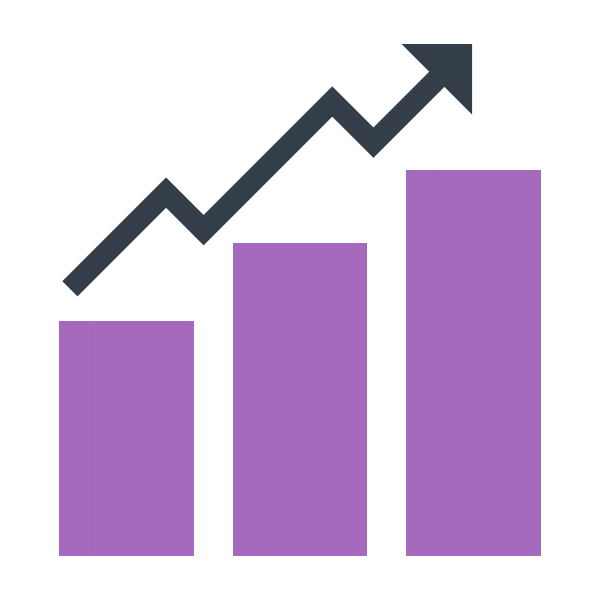
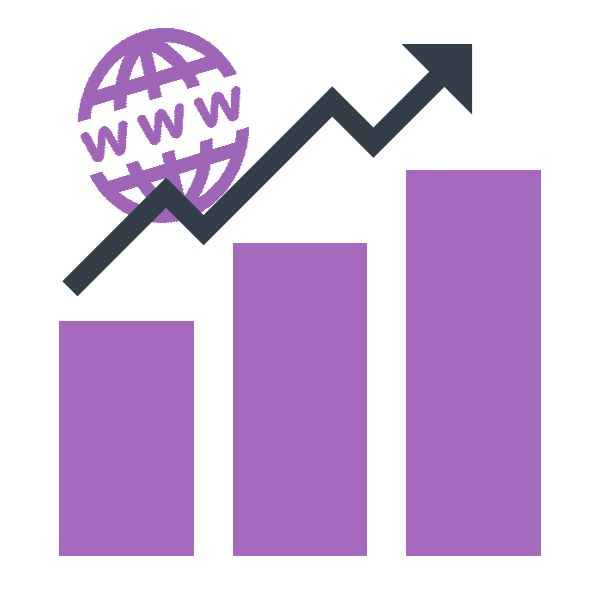
rubrieken css

Changed region(s): [[0.119, 0.0303, 0.4165, 0.3933]]

diff --git a/css/styles.css b/css/styles.css
@@ -96,6 +96,25 @@ main .succesMessage span{
     margin-left: -30px;
 }
 
+.subtabcontent a{
+    color: #000;
+}
+
+.subtabcontent a{
+    transition: margin-left 200ms, text-decoration-color 500ms;
+    display: block;
+    text-decoration: underline;
+    text-decoration-color: #fff;
+}
+
+.subtabcontent a:hover{
+    text-decoration-color: #000;
+}
+
+.subtabcontent ul li a:hover{
+    margin-left: 5px;
+}
+
 .catalogusButton{
     border: none;
     text-align: center;
@@ -147,8 +166,18 @@ main .succesMessage span{
     border-color: rgb(110, 110, 110);
 }
 
-.darkmode--activated .tabcontent .subsubcategories{
+.darkmode--activated .tabcontent .subtabcontent a{
     color: rgb(230, 230, 230);
+    text-decoration: underline;
+    text-decoration-color: rgb(100, 100, 100);
+}
+
+.darkmode--activated .subtabcontent a:hover{
+    text-decoration-color: rgb(230, 230, 230);
+}
+
+.darkmode--activated .subtabcontent ul li a:hover{
+    margin-left: 5px;
 }
 
 

diff --git a/classes/views/adminView.php b/classes/views/adminView.php
@@ -2,12 +2,12 @@
 
 $bootstrapGrid = 'col-xl-4 col-md-6 col-sm-6 col-6';
 
-$categories = ["auction", "user", "seller", "statistics", "activity", "addRubriek", "feedback", "footerpages", "settings", "reset", "fill", "query"];
+$categories = ["auction", "user", "seller", "statistics", "activity", "addRubriek", "feedback", "footerpages", "visitormap", "settings", "reset", "fill", "query"];
 $titles = ['Website', 'Database'];
-$websiteCategoriesAmount = 8;
+$websiteCategoriesAmount = 9;
 $databaseCategoriesAmount = 4;
 $cardTitles = ['Bekijk alle veilingen', 'Bekijk alle gebruikers', 'Bekijk alle verkopers', 'Bekijk website statistieken', 'Bekijk gebruikers statistieken',
-    'Voeg een rubriek toe', "Bekijk alle feedback", "Footer pagina's", 'Server Settings', 'Reset uw database', 'Vul uw database', 'MS SQL Server Query Editor'];
+    'Voeg een rubriek toe', "Bekijk alle feedback", "Footer pagina's", "Wereldkaart", 'Server Settings', 'Reset uw database', 'Vul uw database', 'MS SQL Server Query Editor'];
 $cardText = ['Hier is een overzicht te vinden van alle veilingen die ooit hebben bestaan.',
             'Hier is een overzicht te vinden van alle gebruikers.',
             'Hier is een overzicht te vinden van alle verkopers.',
@@ -16,6 +16,7 @@ $cardText = ['Hier is een overzicht te vinden van alle veilingen die ooit hebben
             'Op deze pagina is het mogelijk om een rubriek toe te voegen.',
             'Hier is een overzicht te vinden van alle feedback',
             "Op deze pagina kan je alle footer pagina's aanpassen",
+            "Hier is een overzicht van locaties van bezoekers",
             'Op deze pagina is het mogelijk om de server instellingen te wijzigen',
             'Op deze pagina is het mogelijk om de database te resetten.',
             'Op deze pagina kan je de database vullen met data.',

diff --git a/classes/views/profile/favoriteView.php b/classes/views/profile/favoriteView.php
@@ -88,17 +88,11 @@
                         </tr>
                         </thead>
                         <tbody>
-                        <tr class="table-green">
-                            <td>Je hebt de veiling gewonnen.</td>
-                        </tr>
                         <tr class="table-red">
-                            <td>Je hebt de veiling verloren.</td>
+                            <td>Veiling is afgelopen.</td>
                         </tr>
-                        <tr class="table-orange">
-                            <td>Je bent overboden op een actieve veiling.</td>
-                        </tr>
-                        <tr class="table-blue">
-                            <td>Je bent de hoogste bieder op een actieve veiling.</td>
+                        <tr class="table-green">
+                            <td>Veiling is nog actief.</td>
                         </tr>
                         </tbody>
                     </table>
